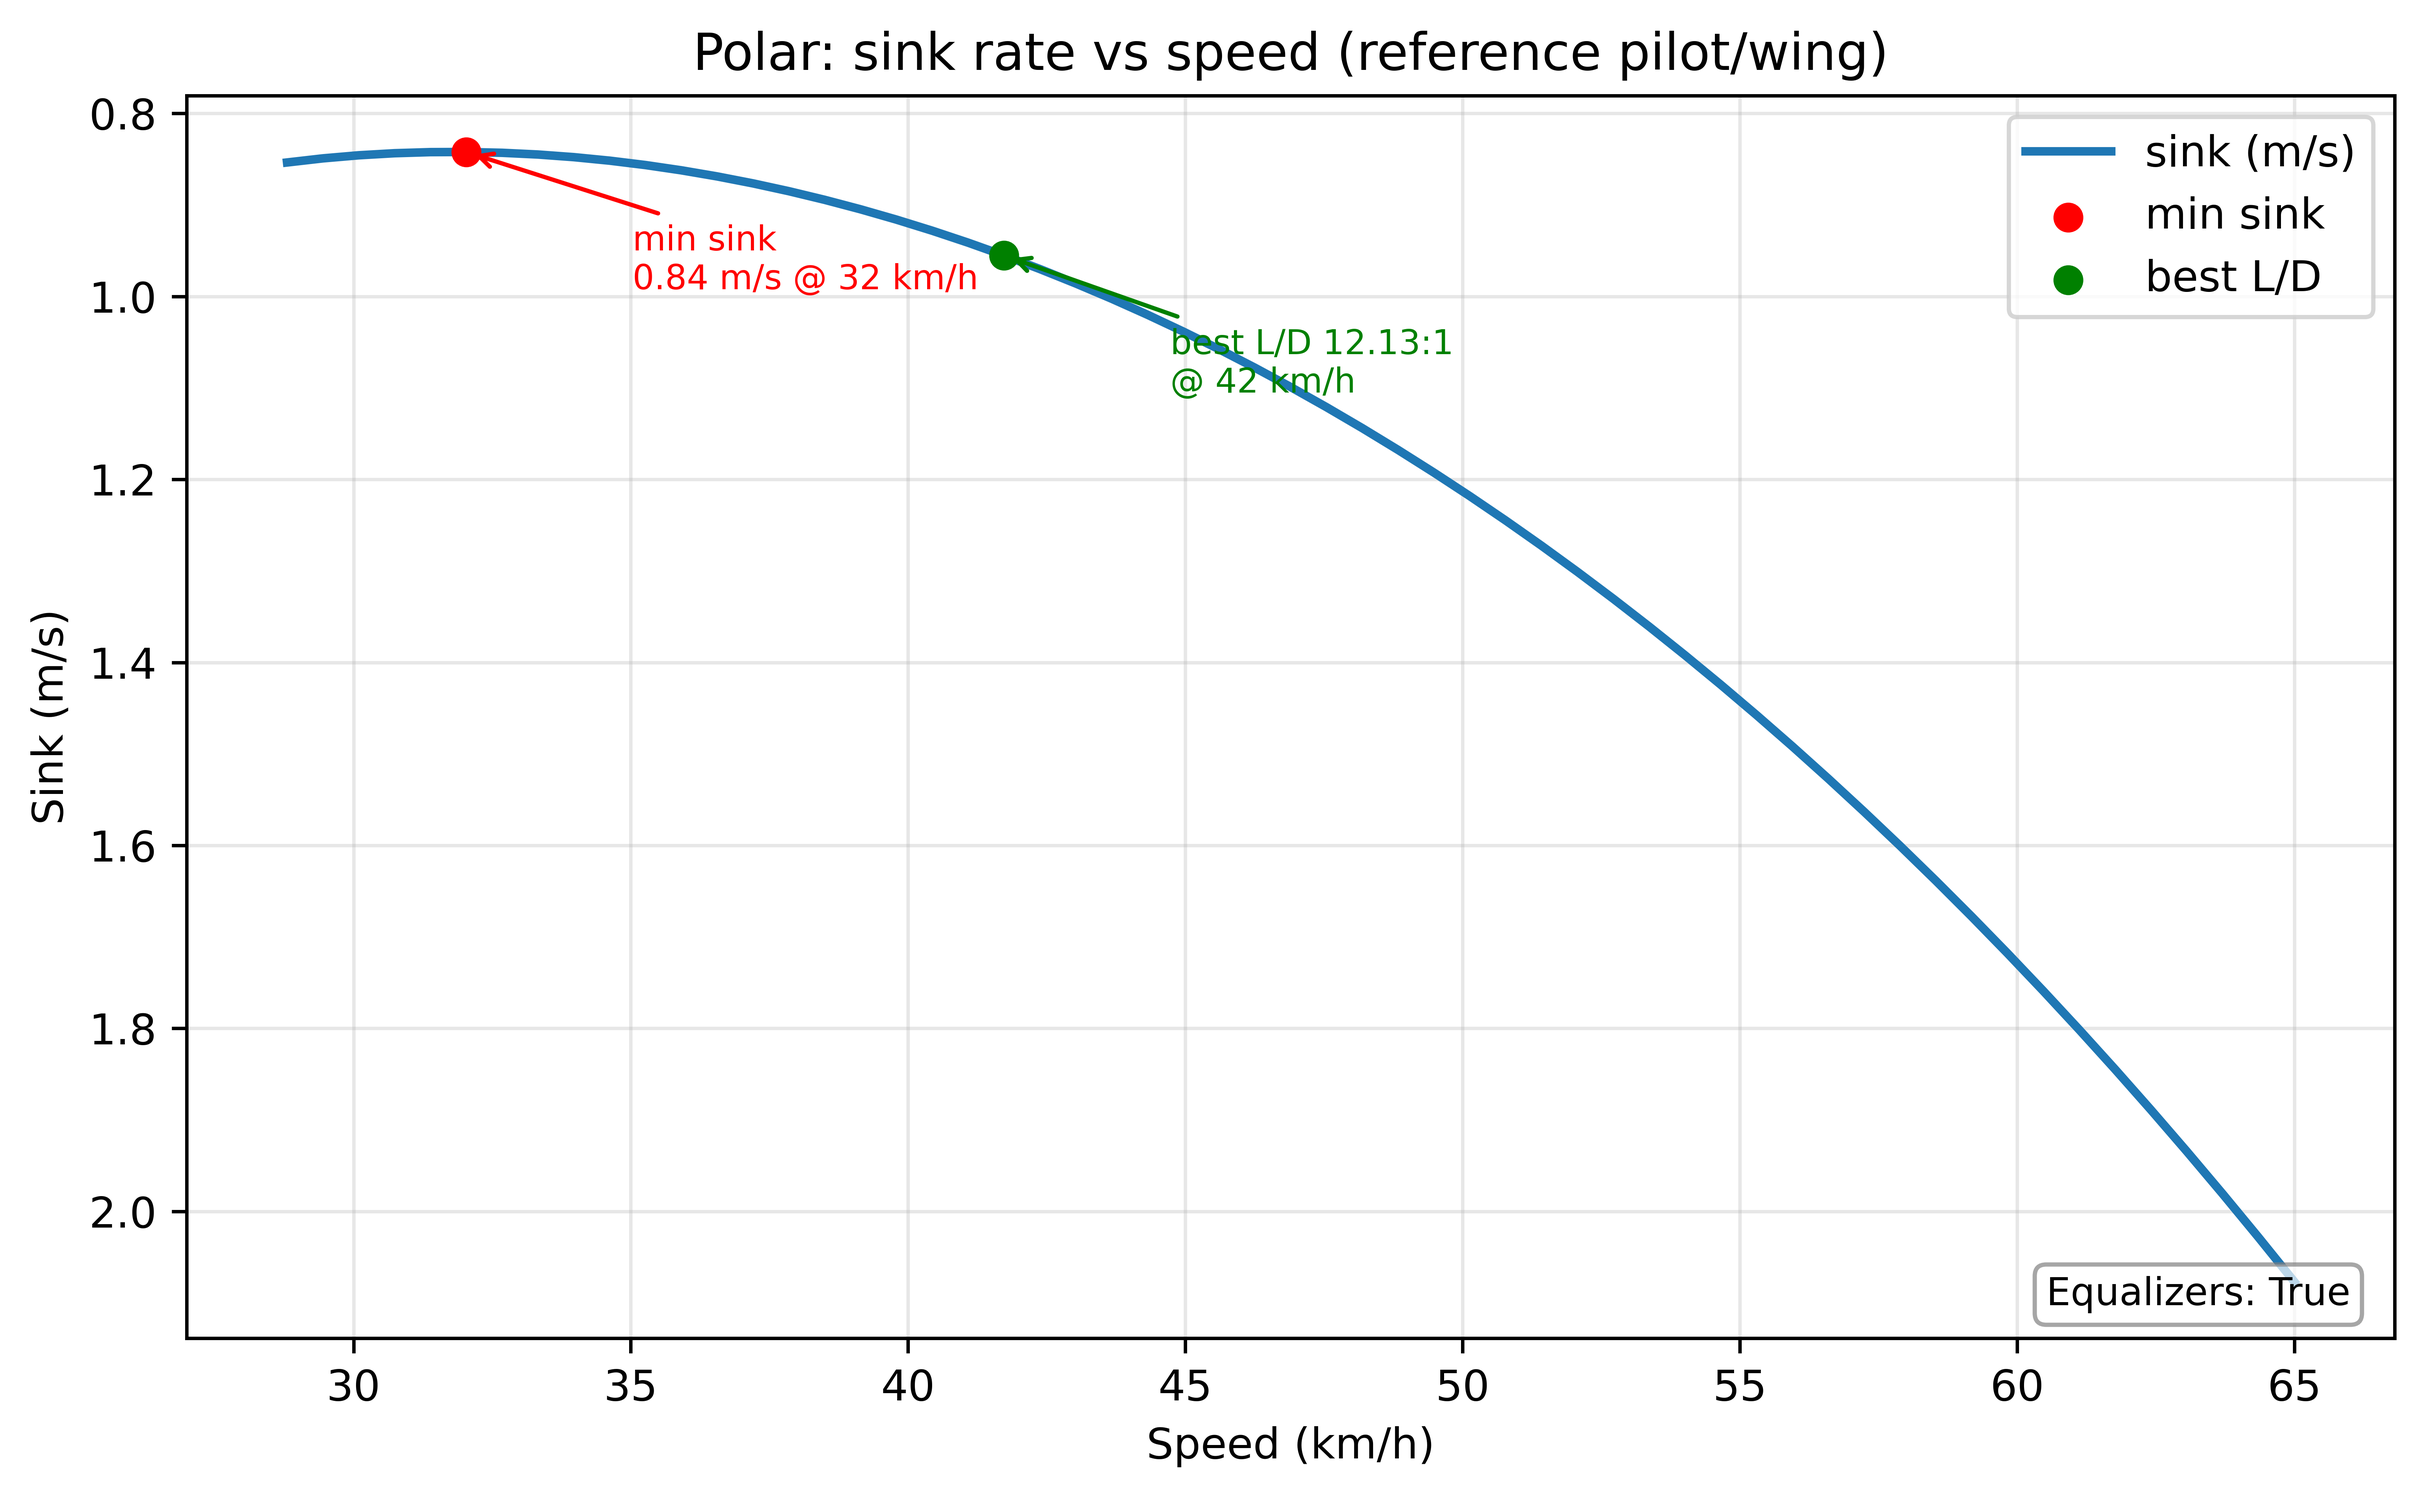
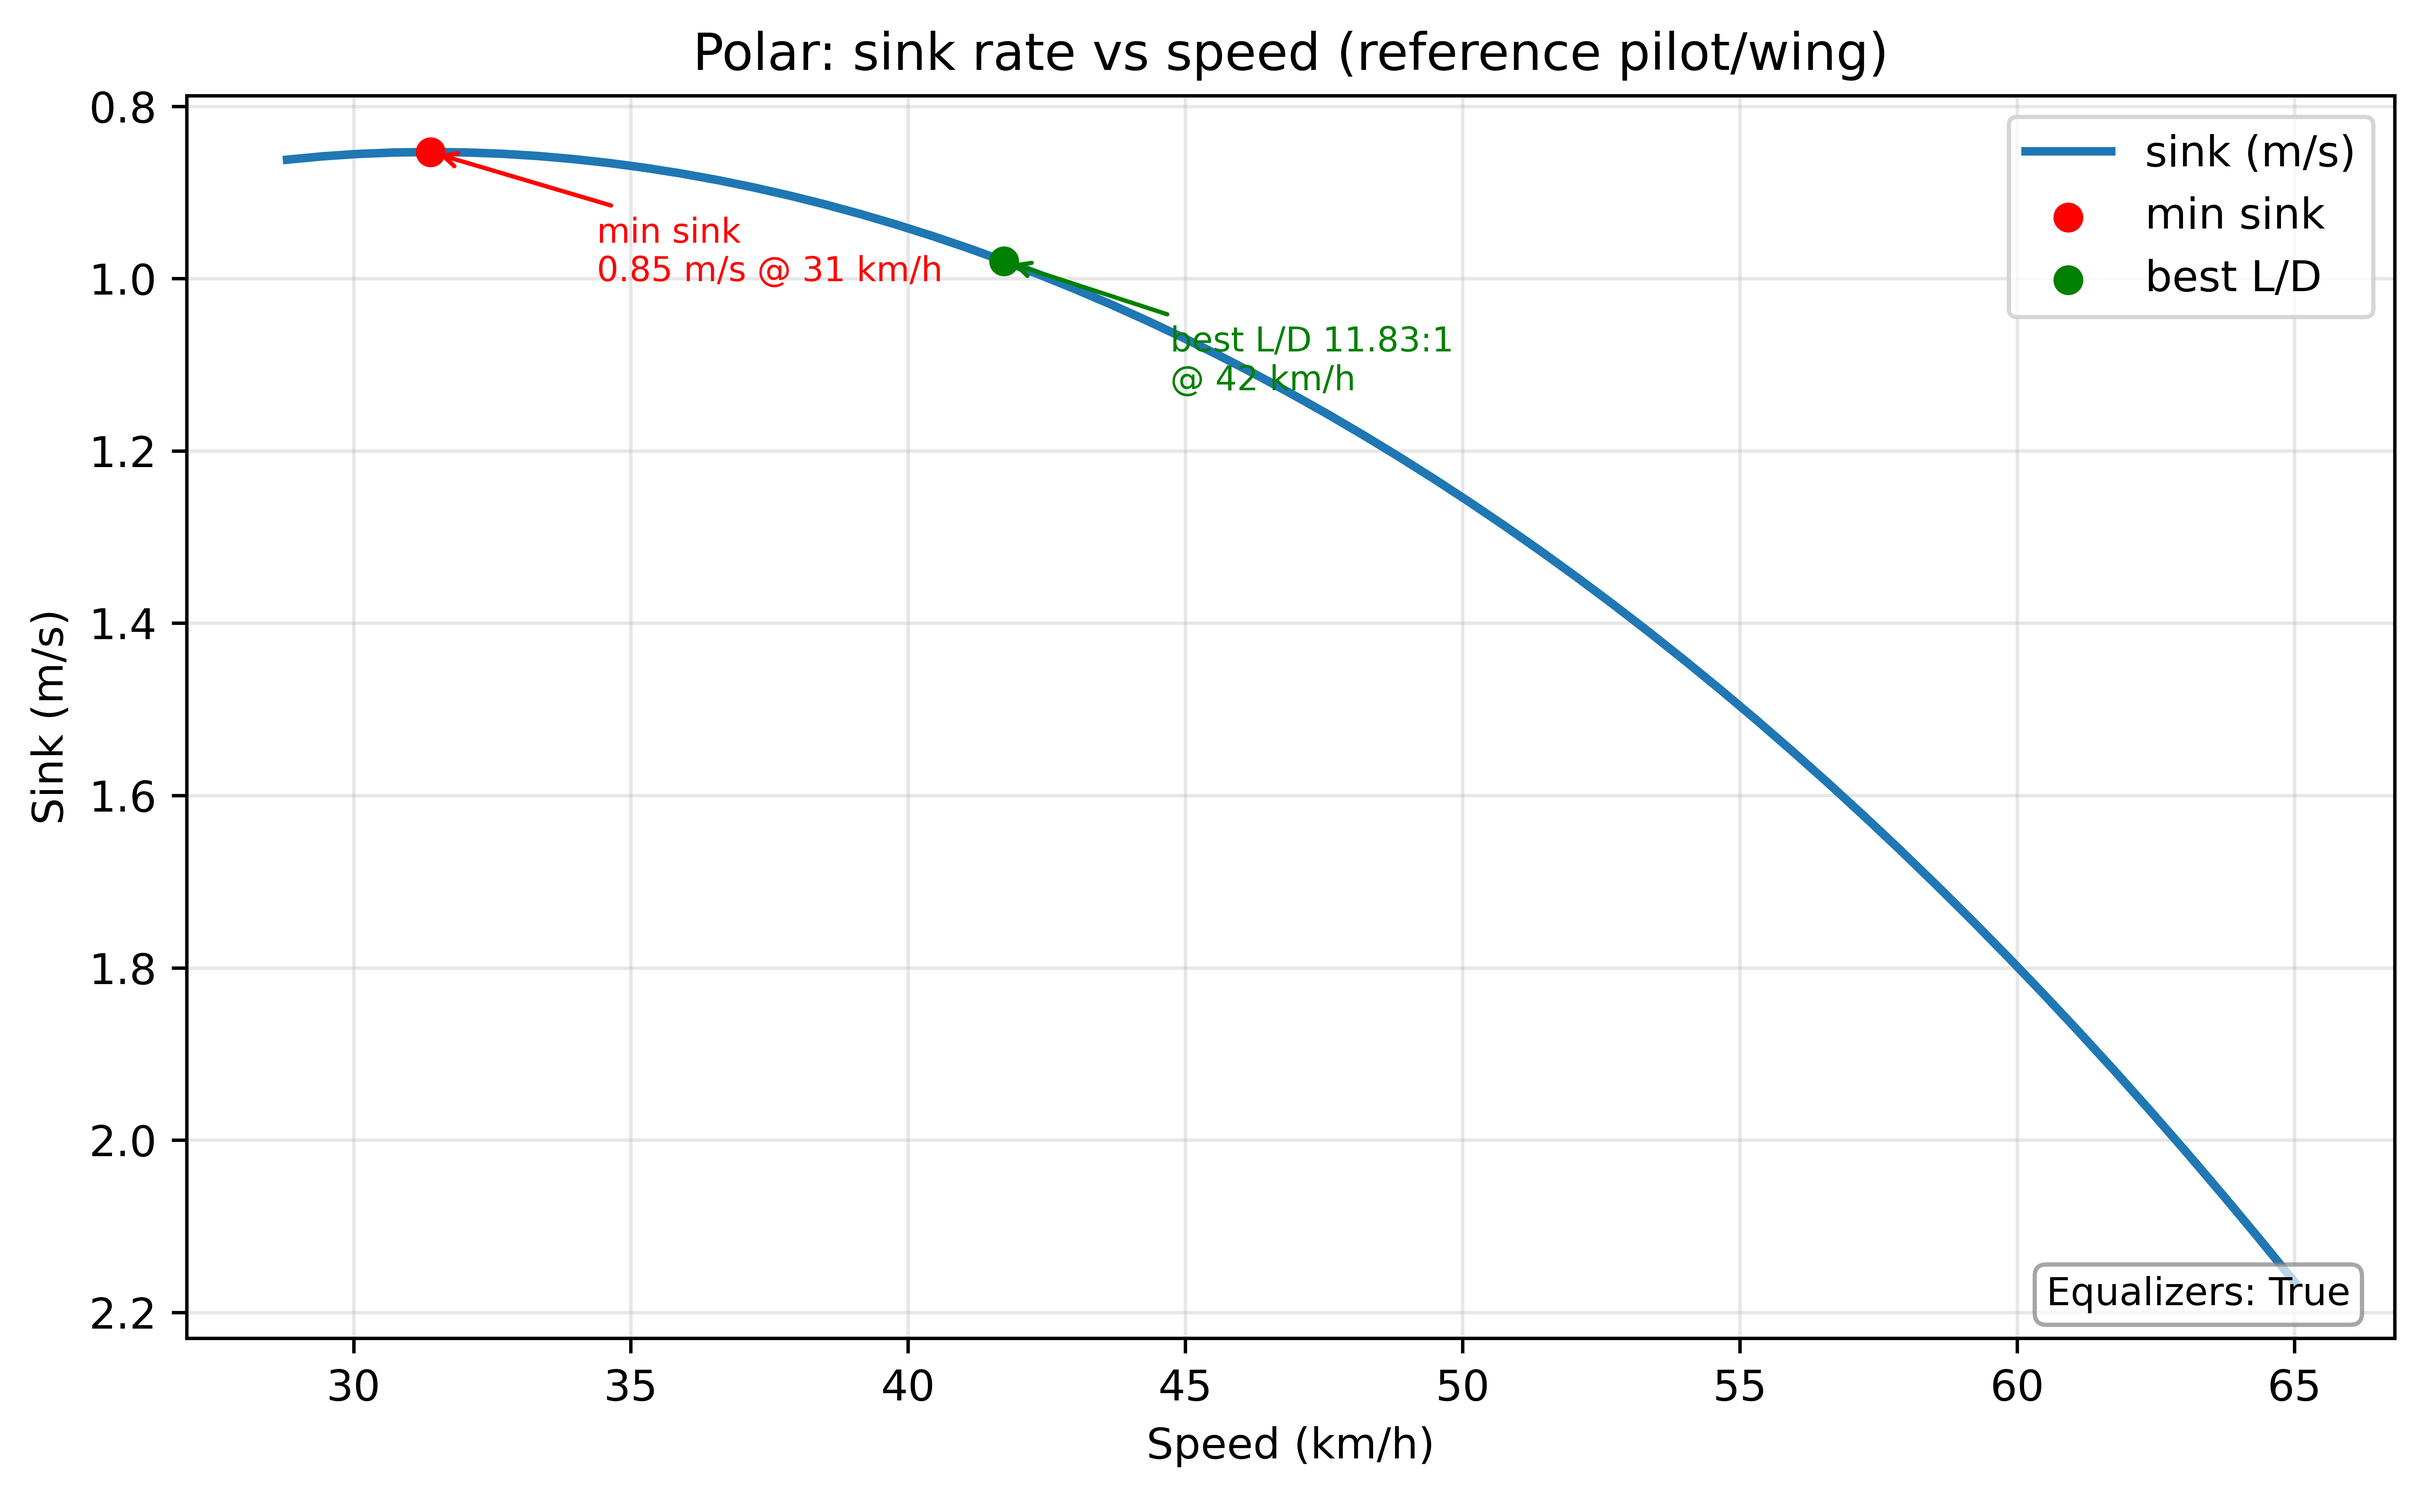
feat(aero): decouple wing Cd calibration from equalizer drag
Calibrates CD_WING_REF without equalizer drag to remove baseline bias when comparing “with vs without equalizers”.

Changes:

Added parameter CD_EQUALIZERS_FOR_CAL (default 0.0) to calibrate_cd_wing_ref and used it instead of cfg.CD_EQUALIZERS.
Updated run_model.py to call calibrate_cd_wing_ref(CD_EQUALIZERS_FOR_CAL=0.0).
Added dual calibration check: prints sink at reference speed with and without current equalizer Cd.
Hardened non-blocking plot display (plots.py) against backend/Tkinter teardown errors.
Result:

Wing baseline Cd now represents the no-equalizer condition.
Absolute glide/sink no longer implicitly normalized to the equalizer-on case.
“With vs without equalizers” plots now differ only by pilot drag contribution.
Follow‑up (optional):

Add optional dual baselines (CD_WING_REF_NOEQ / CD_WING_REF_EQON) if cross-group normalization isn’t required.
Refs: discussion on equalizer-induced calibration bias.

diff --git a/run_model.py b/run_model.py
@@ -21,7 +21,8 @@ from wsm.plots import (
 
 
 def main():
-    CD_WING_REF = calibrate_cd_wing_ref()
+    # Calibrate wing Cd without equalizer drag so baseline isn't biased.
+    CD_WING_REF = calibrate_cd_wing_ref(CD_EQUALIZERS_FOR_CAL=0.0)
 
     print("\n" + "="*80)
     print("SCALING MODEL: Dimensions calculated from height & weight using SD")
@@ -224,6 +225,7 @@ def main():
         )
         cal_areas = frontal_areas_iso(cal_person)
         v_cal = cfg.CAL_REF_SPEED_MPS
+        # Re-run reference condition WITHOUT equalizers to check calibration target
         D_body = drag_all_iso(
             cal_areas,
             speed_mps=v_cal,
@@ -232,7 +234,7 @@ def main():
             Cd_head=cfg.CD_HEAD,
             head_exposed_fraction=cfg.HEAD_EXPOSED_FRACTION,
             Cd_arms=cfg.CD_ARMS,
-            Cd_equalizers=cfg.CD_EQUALIZERS,
+            Cd_equalizers=0.0,
         )
         q_cal = 0.5 * cfg.RHO_AIR * v_cal**2
         A_lines_cal = lines_area_from_wing_size(cfg.CAL_REF_WING_KG)
@@ -241,7 +243,27 @@ def main():
         W_cal = calculate_wing_drag(cfg.CAL_REF_WING_KG, pilot_drag_cal, CD_WING_REF, v_cal, cfg.RHO_AIR, e_oswald=cfg.E_OSWALD)
         glide_cal = W_cal["glide_ratio"]
         sink_cal = v_cal / glide_cal if glide_cal > 0 else float("nan")
-        print(f"\nCalibration check (115 kg @ 63 km/h): sink ≈ {sink_cal:.2f} m/s (target {cfg.CAL_REF_SINK_MPS:.2f})")
+        print(f"\nCalibration check (115 kg @ {cfg.CAL_REF_SPEED_MPS*3.6:.0f} km/h, no equalizers): sink ≈ {sink_cal:.2f} m/s (target {cfg.CAL_REF_SINK_MPS:.2f})")
+        if cfg.CD_EQUALIZERS > 0:
+            # Show effect when applying current equalizer Cd at calibration speed
+            D_body_eq = drag_all_iso(
+                cal_areas,
+                speed_mps=v_cal,
+                rho_air=cfg.RHO_AIR,
+                Cd_streamlined=cfg.CD_STREAMLINED,
+                Cd_head=cfg.CD_HEAD,
+                head_exposed_fraction=cfg.HEAD_EXPOSED_FRACTION,
+                Cd_arms=cfg.CD_ARMS,
+                Cd_equalizers=cfg.CD_EQUALIZERS,
+            )
+            q_cal_eq = 0.5 * cfg.RHO_AIR * v_cal**2
+            A_lines_cal_eq = lines_area_from_wing_size(cfg.CAL_REF_WING_KG)
+            D_lines_cal_eq = q_cal_eq * cfg.CD_LINES * A_lines_cal_eq
+            pilot_drag_cal_eq = D_body_eq["Drag_total_N"] + D_lines_cal_eq
+            W_cal_eq = calculate_wing_drag(cfg.CAL_REF_WING_KG, pilot_drag_cal_eq, CD_WING_REF, v_cal, cfg.RHO_AIR, e_oswald=cfg.E_OSWALD)
+            glide_cal_eq = W_cal_eq["glide_ratio"]
+            sink_cal_eq = v_cal / glide_cal_eq if glide_cal_eq > 0 else float("nan")
+            print(f"  With equalizers Cd={cfg.CD_EQUALIZERS}: sink ≈ {sink_cal_eq:.2f} m/s (higher sink expected)")
     except Exception:
         pass
 

diff --git a/wsm/plots.py b/wsm/plots.py
@@ -133,9 +133,12 @@ def plot_polar_for_reference(CD_WING_REF: float):
         plt.show(block=cfg.SHOW_BLOCKING)
         if not cfg.SHOW_BLOCKING:
             plt.pause(0.001)
-    except TypeError:
-        # Fallback for very old matplotlib without 'block' parameter
-        plt.show()
+    except Exception:
+        # Be robust to backend quirks on non-blocking shows
+        try:
+            plt.show()
+        except Exception:
+            pass
 
 
 def plot_polars_for_all_pilots(CD_WING_REF: float):
@@ -297,8 +300,11 @@ def plot_polars_for_all_pilots(CD_WING_REF: float):
         plt.show(block=cfg.SHOW_BLOCKING)
         if not cfg.SHOW_BLOCKING:
             plt.pause(0.001)
-    except TypeError:
-        plt.show()
+    except Exception:
+        try:
+            plt.show()
+        except Exception:
+            pass
 
     if cfg.EXPORT_CSV and all_rows:
         try:
@@ -439,8 +445,11 @@ def plot_115kg_ballast_comparison(CD_WING_REF: float):
         plt.show(block=cfg.SHOW_BLOCKING)
         if not cfg.SHOW_BLOCKING:
             plt.pause(0.001)
-    except TypeError:
-        plt.show()
+    except Exception:
+        try:
+            plt.show()
+        except Exception:
+            pass
 
     if cfg.EXPORT_CSV and all_rows:
         try:

diff --git a/wsm/aero.py b/wsm/aero.py
@@ -87,9 +87,13 @@ def calculate_wing_drag(
     }
 
 
-def calibrate_cd_wing_ref() -> float:
+def calibrate_cd_wing_ref(CD_EQUALIZERS_FOR_CAL: float = 0.0) -> float:
     """Compute Cd_wing_ref on projected area so that the reference condition
     (CAL_REF_WING_KG at CAL_REF_SPEED_MPS) yields CAL_REF_SINK_MPS for CAL_REF_PILOT.
+
+    Note: Calibration is performed with an explicit equalizer Cd passed via
+    CD_EQUALIZERS_FOR_CAL (default 0.0) to avoid baking current cfg.CD_EQUALIZERS
+    into the baseline wing Cd.
     """
     height_cm, weight_kg, sex = cfg.CAL_REF_PILOT
 
@@ -114,7 +118,7 @@ def calibrate_cd_wing_ref() -> float:
         Cd_head=cfg.CD_HEAD,
         head_exposed_fraction=cfg.HEAD_EXPOSED_FRACTION,
         Cd_arms=cfg.CD_ARMS,
-        Cd_equalizers=cfg.CD_EQUALIZERS,
+        Cd_equalizers=CD_EQUALIZERS_FOR_CAL,
     )
     A_lines = lines_area_from_wing_size(cfg.CAL_REF_WING_KG)
     D_lines = q * cfg.CD_LINES * A_lines

diff --git a/wsm/config.py b/wsm/config.py
@@ -36,8 +36,8 @@ EQUALIZER_DIAMETER_MM: float = 25.0        # Equalizer tube diameter
 CD_STREAMLINED: float = 0.23               # Torso + protector + legs
 CD_HEAD: float = 0.40                      # Head with helmet
 CD_ARMS: float = 1.00                      # Arms (cylinders perpendicular to flow)
-CD_EQUALIZERS: float = 1.00                # Equalizers (cylinders perpendicular to flow)
-# CD_EQUALIZERS: float = 0.00                # Equalizers (cylinders perpendicular to flow)
+# CD_EQUALIZERS: float = 1.00                # Equalizers (cylinders perpendicular to flow)
+CD_EQUALIZERS: float = 0.00                # Equalizers (cylinders perpendicular to flow)
 CD_LINES: float = 1.00                     # Lines drag coefficient (cylinders approx perpendicular)
 
 GRAVITY: float = 9.81                      # Gravitational acceleration (m/s^2)
